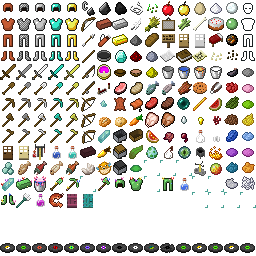
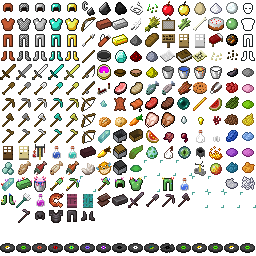
Nether phase 6: netherite
Ancient debris smelts to scrap; 4 scrap + 4 gold make an ingot (shaped,
since definition() cannot hold 8 shapeless pairs); 9 ingots make a block
and back. A diamond tool, sword or armour piece plus an ingot at the
crafting table gives the netherite one. New tier (4, 2031, 9, 4) and
armour material (37; diamond's protection) with the supplied layers.
Netherite item entities ignore fire and float up through lava.

Claude-Session: https://claude.ai/code/session_017mH2AEpB4uvm7sSTXaKhRB

diff --git a/handheld/src/world/item/Item.cpp b/handheld/src/world/item/Item.cpp
@@ -18,6 +18,8 @@ Item::Tier const Item::Tier::STONE(1, 131, 4, 1);
 Item::Tier const Item::Tier::IRON(2, 250, 6, 2);
 Item::Tier const Item::Tier::EMERALD(3, 1561, 8, 3);
 Item::Tier const Item::Tier::GOLD(0, 32, 12, 0);
+// Java's netherite: above diamond in uses, speed and damage.
+Item::Tier const Item::Tier::NETHERITE(4, 2031, 9, 4);
 
 // Static Item Definitions
 Item* Item::shovel_iron = NULL;
@@ -118,6 +120,17 @@ Item* Item::bucket_lava = NULL;
 Item* Item::goldNugget = NULL;
 Item* Item::oceanShard = NULL;
 Item* Item::kelp = NULL;
+Item* Item::netheriteScrap = NULL;
+Item* Item::netheriteIngot = NULL;
+Item* Item::sword_netherite = NULL;
+Item* Item::shovel_netherite = NULL;
+Item* Item::pickAxe_netherite = NULL;
+Item* Item::hatchet_netherite = NULL;
+Item* Item::hoe_netherite = NULL;
+Item* Item::helmet_netherite = NULL;
+Item* Item::chestplate_netherite = NULL;
+Item* Item::leggings_netherite = NULL;
+Item* Item::boots_netherite = NULL;
 Item* Item::trident = NULL;
 Item* Item::shovel_coral = NULL;
 Item* Item::pickAxe_coral = NULL;
@@ -365,6 +378,18 @@ void Item::initItems() {
 	Item::leggings_coral   = (new ArmorItem(175, ArmorItem::IRON, 5, ArmorItem::SLOT_LEGS))->setIcon(10, 11)->setCategory(ItemCategory::FoodArmor)->setDescriptionId("leggingsCoral");
 	Item::boots_coral      = (new ArmorItem(176, ArmorItem::IRON, 5, ArmorItem::SLOT_FEET))->setIcon(0, 12)->setCategory(ItemCategory::FoodArmor)->setDescriptionId("bootsCoral");
 	Item::trident = (new TridentItem(177))->setIcon(1, 12)->setCategory(ItemCategory::Tools)->setDescriptionId("trident");
+	// Netherite (phase 6): icons (6..11, 12) and (1..5, 13).
+	Item::netheriteScrap    = (new Item(180))->setIcon(6, 12)->setCategory(ItemCategory::Tools)->setDescriptionId("netheriteScrap");
+	Item::netheriteIngot    = (new Item(181))->setIcon(7, 12)->setCategory(ItemCategory::Tools)->setDescriptionId("netheriteIngot");
+	Item::sword_netherite   = (new WeaponItem(182, Tier::NETHERITE))->setIcon(8, 12)->setCategory(ItemCategory::Tools)->setDescriptionId("swordNetherite");
+	Item::shovel_netherite  = (new ShovelItem(183, Tier::NETHERITE))->setIcon(9, 12)->setCategory(ItemCategory::Tools)->setDescriptionId("shovelNetherite");
+	Item::pickAxe_netherite = (new PickaxeItem(184, Tier::NETHERITE))->setIcon(10, 12)->setCategory(ItemCategory::Tools)->setDescriptionId("pickaxeNetherite");
+	Item::hatchet_netherite = (new HatchetItem(185, Tier::NETHERITE))->setIcon(11, 12)->setCategory(ItemCategory::Tools)->setDescriptionId("hatchetNetherite");
+	Item::hoe_netherite     = (new HoeItem(186, Tier::NETHERITE))->setIcon(1, 13)->setCategory(ItemCategory::Tools)->setDescriptionId("hoeNetherite");
+	Item::helmet_netherite     = (new ArmorItem(187, ArmorItem::NETHERITE, 6, ArmorItem::SLOT_HEAD))->setIcon(2, 13)->setCategory(ItemCategory::FoodArmor)->setDescriptionId("helmetNetherite");
+	Item::chestplate_netherite = (new ArmorItem(188, ArmorItem::NETHERITE, 6, ArmorItem::SLOT_TORSO))->setIcon(3, 13)->setCategory(ItemCategory::FoodArmor)->setDescriptionId("chestplateNetherite");
+	Item::leggings_netherite   = (new ArmorItem(189, ArmorItem::NETHERITE, 6, ArmorItem::SLOT_LEGS))->setIcon(4, 13)->setCategory(ItemCategory::FoodArmor)->setDescriptionId("leggingsNetherite");
+	Item::boots_netherite      = (new ArmorItem(190, ArmorItem::NETHERITE, 6, ArmorItem::SLOT_FEET))->setIcon(5, 13)->setCategory(ItemCategory::FoodArmor)->setDescriptionId("bootsNetherite");
 	Item::oceanShard   = (new Item(153))->setIcon(6, 6)->setCategory(ItemCategory::Tools)->setDescriptionId("oceanShard");
 	Item::oceanCrystal = (new Item(154))->setIcon(6, 8)->setCategory(ItemCategory::Tools)->setDescriptionId("oceanCrystal");
 	// Bottles and the plain potion stack to 16; potions with an effect do not.
@@ -410,4 +435,10 @@ bool Item::isCoralTool(int id)
 {
 	return (shovel_coral && id == shovel_coral->id) || (pickAxe_coral && id == pickAxe_coral->id)
 		|| (hatchet_coral && id == hatchet_coral->id);
+}
+
+bool Item::isNetherite(int id)
+{
+	return (netheriteScrap && id >= netheriteScrap->id && id <= boots_netherite->id)
+		|| (Tile::netheriteBlock && id == Tile::netheriteBlock->id);
 }

diff --git a/handheld/src/client/gui/ItemTooltip.h b/handheld/src/client/gui/ItemTooltip.h
@@ -29,16 +29,16 @@ namespace ItemTooltip
 		char buf[64] = "";
 		const int id = item.id;
 		if (Item::sword_wood && (id == Item::sword_wood->id || id == Item::sword_stone->id || id == Item::sword_iron->id
-				|| id == Item::sword_gold->id || id == Item::sword_emerald->id)) {
+				|| id == Item::sword_gold->id || id == Item::sword_emerald->id || id == Item::sword_netherite->id)) {
 			snprintf(buf, sizeof buf, "+%d Attack Damage", ((WeaponItem*) it)->getAttackDamage(NULL));
 		} else if (Item::pickAxe_wood && (id == Item::pickAxe_wood->id || id == Item::pickAxe_stone->id || id == Item::pickAxe_iron->id
-				|| id == Item::pickAxe_gold->id || id == Item::pickAxe_emerald->id)) {
+				|| id == Item::pickAxe_gold->id || id == Item::pickAxe_emerald->id || id == Item::pickAxe_netherite->id)) {
 			snprintf(buf, sizeof buf, "+%d Mining Efficiency", (int) ((DiggerItem*) it)->getSpeed());
 		} else if (Item::hatchet_wood && (id == Item::hatchet_wood->id || id == Item::hatchet_stone->id || id == Item::hatchet_iron->id
-				|| id == Item::hatchet_gold->id || id == Item::hatchet_emerald->id)) {
+				|| id == Item::hatchet_gold->id || id == Item::hatchet_emerald->id || id == Item::hatchet_netherite->id)) {
 			snprintf(buf, sizeof buf, "+%d Chop Efficiency", (int) ((DiggerItem*) it)->getSpeed());
 		} else if (Item::shovel_wood && (id == Item::shovel_wood->id || id == Item::shovel_stone->id || id == Item::shovel_iron->id
-				|| id == Item::shovel_gold->id || id == Item::shovel_emerald->id)) {
+				|| id == Item::shovel_gold->id || id == Item::shovel_emerald->id || id == Item::shovel_netherite->id)) {
 			snprintf(buf, sizeof buf, "+%d Dig Efficiency", (int) ((DiggerItem*) it)->getSpeed());
 		} else if (Item::trident && id == Item::trident->id) {
 			snprintf(buf, sizeof buf, "+6 Attack Damage");

diff --git a/handheld/src/world/level/tile/Tile.cpp b/handheld/src/world/level/tile/Tile.cpp
@@ -189,6 +189,7 @@ Tile* Tile::magmaBlock = NULL;
 Tile* Tile::soulFire = NULL;
 Tile* Tile::netherGoldOre = NULL;
 Tile* Tile::ancientDebris = NULL;
+Tile* Tile::netheriteBlock = NULL;
 Tile* Tile::stairs_crimson = NULL;
 Tile* Tile::stairs_warped = NULL;
 Tile* Tile::fence_crimson = NULL;
@@ -409,6 +410,7 @@ void Tile::initTiles() {
 	trapdoor_warped   = (new TrapDoorTile(225, Material::wood, 319))->init()->setDestroyTime(3.0f)->setSoundType(SOUND_WOOD)->setCategory(ItemCategory::Structures)->setDescriptionId("trapdoorWarped");
 	door_crimson      = (new DoorTile(226, Material::wood, 336, &Item::door_crimson))->init()->setDestroyTime(3.0f)->setSoundType(SOUND_WOOD)->setCategory(ItemCategory::Structures)->setDescriptionId("doorCrimson");
 	door_warped       = (new DoorTile(227, Material::wood, 337, &Item::door_warped))->init()->setDestroyTime(3.0f)->setSoundType(SOUND_WOOD)->setCategory(ItemCategory::Structures)->setDescriptionId("doorWarped");
+	netheriteBlock = (new Tile(228, 322, Material::metal))->init()->setDestroyTime(50.0f)->setExplodeable(1200)->setSoundType(SOUND_METAL)->setCategory(ItemCategory::Structures)->setDescriptionId("netheriteBlock");
 	// Bone block: sides 281, top and bottom 282. Sea lantern: 283.
 	boneBlock = (new BoneBlockTile(190, 281))->init()->setDestroyTime(2.0f)->setExplodeable(10)->setSoundType(SOUND_STONE)->setCategory(ItemCategory::Structures)->setDescriptionId("boneBlock");
 	seaLantern = (new SeaLanternTile(191, 283))->init()->setDestroyTime(0.3f)->setLightEmission(1.0f)->setSoundType(SOUND_GLASS)->setCategory(ItemCategory::Decorations)->setDescriptionId("seaLantern");

diff --git a/handheld/src/world/item/crafting/Recipes.cpp b/handheld/src/world/item/crafting/Recipes.cpp
@@ -128,6 +128,23 @@ Recipes::Recipes()
 
 		definition('#', Item::bone));
 
+	// Netherite: 4 scrap and 4 gold make an ingot; 9 ingots a block and back.
+	// (definition() takes too few pairs for an 8-item shapeless recipe, so
+	// this one is shaped.)
+	addShapedRecipe(ItemInstance(Item::netheriteIngot, 1), "SSG", "SSG", "GG ", definition('S', Item::netheriteScrap, 'G', Item::goldIngot));
+	addShapedRecipe(ItemInstance(Tile::netheriteBlock, 1), "###", "###", "###", definition('#', Item::netheriteIngot));
+	addShapelessRecipe(ItemInstance(Item::netheriteIngot, 9), definition(0, Tile::netheriteBlock));
+	// The upgrade, at the crafting table instead of Java's smithing table:
+	// a diamond piece and an ingot make the netherite one.
+	{
+		Item* from[9] = { Item::sword_emerald, Item::shovel_emerald, Item::pickAxe_emerald, Item::hatchet_emerald, Item::hoe_emerald,
+			Item::helmet_diamond, Item::chestplate_diamond, Item::leggings_diamond, Item::boots_diamond };
+		Item* to[9] = { Item::sword_netherite, Item::shovel_netherite, Item::pickAxe_netherite, Item::hatchet_netherite, Item::hoe_netherite,
+			Item::helmet_netherite, Item::chestplate_netherite, Item::leggings_netherite, Item::boots_netherite };
+		for (int i = 0; i < 9; ++i)
+			addShapelessRecipe(ItemInstance(to[i], 1), definition(0, from[i], 0, Item::netheriteIngot));
+	}
+
 	addShapelessRecipe(ItemInstance(Item::dye_powder, 9, DyePowderItem::WHITE), //
 		definition(0, Tile::boneBlock));
 

diff --git a/handheld/src/client/gui/screens/touch/CreativeInventoryScreen.cpp b/handheld/src/client/gui/screens/touch/CreativeInventoryScreen.cpp
@@ -78,7 +78,7 @@ int CreativeInventoryScreen::sectionOf(const ItemInstance& item)
 	if (self->isArmor()) return WeaponsArmor;
 	Item* const weapons[] = {
 		Item::sword_wood, Item::sword_stone, Item::sword_iron, Item::sword_gold, Item::sword_emerald,
-		Item::bow, Item::arrow, Item::trident,
+		Item::bow, Item::arrow, Item::trident, Item::sword_netherite,
 	};
 	if (isOneOf(id, weapons, COUNT(weapons))) return WeaponsArmor;
 	Item* const tools[] = {
@@ -89,6 +89,7 @@ int CreativeInventoryScreen::sectionOf(const ItemInstance& item)
 		Item::flintAndSteel, Item::shears, Item::bucket_empty, Item::bucket_water, Item::bucket_lava,
 		Item::clock, Item::compass, Item::camera,
 		Item::pickAxe_coral, Item::shovel_coral, Item::hatchet_coral, Item::axolotlBucket,
+		Item::pickAxe_netherite, Item::shovel_netherite, Item::hatchet_netherite, Item::hoe_netherite,
 	};
 	if (isOneOf(id, tools, COUNT(tools))) return Tools;
 	Item* const drinks[] = { Item::waterBottle, Item::awkwardPotion, Item::waterBreathingPotion, Item::unpoisonPotion, Item::mushroomStew };

diff --git a/handheld/src/world/entity/player/Inventory.cpp b/handheld/src/world/entity/player/Inventory.cpp
@@ -258,6 +258,18 @@ void Inventory::setupDefault() {
 		addItem(new ItemInstance(Tile::soulSoil));
 		addItem(new ItemInstance(Tile::basalt));
 		addItem(new ItemInstance(Tile::blackstone));
+		addItem(new ItemInstance(Tile::netheriteBlock));
+		addItem(new ItemInstance(Item::netheriteScrap));
+		addItem(new ItemInstance(Item::netheriteIngot));
+		addItem(new ItemInstance(Item::sword_netherite));
+		addItem(new ItemInstance(Item::pickAxe_netherite));
+		addItem(new ItemInstance(Item::hatchet_netherite));
+		addItem(new ItemInstance(Item::shovel_netherite));
+		addItem(new ItemInstance(Item::hoe_netherite));
+		addItem(new ItemInstance(Item::helmet_netherite));
+		addItem(new ItemInstance(Item::chestplate_netherite));
+		addItem(new ItemInstance(Item::leggings_netherite));
+		addItem(new ItemInstance(Item::boots_netherite));
 		addItem(new ItemInstance(Tile::crimsonStem));
 		addItem(new ItemInstance(Tile::warpedStem));
 		addItem(new ItemInstance(Tile::netherWartBlock));

diff --git a/handheld/src/world/item/Item.h b/handheld/src/world/item/Item.h
@@ -34,6 +34,7 @@ public:
 		static const Tier IRON;
 		static const Tier EMERALD;
 		static const Tier GOLD;
+		static const Tier NETHERITE;
 
 		Tier(int level, int uses, float speed, int damage)
 		:	level(level),
@@ -211,6 +212,19 @@ public:
 	static Item* goldNugget;
 	static Item* oceanShard;
 	static Item* kelp;
+	static Item* netheriteScrap;
+	static Item* netheriteIngot;
+	static Item* sword_netherite;
+	static Item* shovel_netherite;
+	static Item* pickAxe_netherite;
+	static Item* hatchet_netherite;
+	static Item* hoe_netherite;
+	static Item* helmet_netherite;
+	static Item* chestplate_netherite;
+	static Item* leggings_netherite;
+	static Item* boots_netherite;
+	/// Netherite and what is made of it: floats in lava, never burns.
+	static bool isNetherite(int id);
 	static Item* trident;
 	static Item* shovel_coral;
 	static Item* pickAxe_coral;

diff --git a/handheld/src/world/entity/item/ItemEntity.cpp b/handheld/src/world/entity/item/ItemEntity.cpp
@@ -73,7 +73,12 @@ void ItemEntity::tick()
 	} else {
 		yd -= 0.04f;
 	}
-	if (level->getMaterial(Mth::floor(x), Mth::floor(y), Mth::floor(z)) == Material::lava) {
+	if (level->getMaterial(Mth::floor(x), Mth::floor(y), Mth::floor(z)) == Material::lava && Item::isNetherite(item.id)) {
+		// Netherite floats up through lava, untouched (Java).
+		yd = 0.06f;
+		xd *= 0.8f;
+		zd *= 0.8f;
+	} else if (level->getMaterial(Mth::floor(x), Mth::floor(y), Mth::floor(z)) == Material::lava) {
 		yd = 0.2f;
 		xd = (sharedRandom.nextFloat() - sharedRandom.nextFloat()) * 0.2f;
 		zd = (sharedRandom.nextFloat() - sharedRandom.nextFloat()) * 0.2f;
@@ -136,6 +141,7 @@ void ItemEntity::playerTouch( Player* player )
 
 void ItemEntity::burn( int dmg )
 {
+	if (Item::isNetherite(item.id)) return;	// fire-proof
 	hurt(NULL, dmg);
 }
 

diff --git a/handheld/src/client/renderer/entity/PlayerRenderer.cpp b/handheld/src/client/renderer/entity/PlayerRenderer.cpp
@@ -8,13 +8,14 @@
 #include "../../skin/PlayerSkins.h"
 #include "../Textures.h"
 
-static const std::string armorFilenames[12] = {
+static const std::string armorFilenames[14] = {
 	"armor/cloth_1.png",	"armor/cloth_2.png",
 	"armor/chain_1.png",	"armor/chain_2.png",
 	"armor/iron_1.png",		"armor/iron_2.png",
 	"armor/diamond_1.png",	"armor/diamond_2.png",
 	"armor/gold_1.png",		"armor/gold_2.png",
 	"armor/coral_1.png",	"armor/coral_2.png",
+	"armor/netherite_1.png",	"armor/netherite_2.png",
 };
 
 PlayerRenderer::PlayerRenderer( HumanoidModel* humanoidModel, float shadow )

diff --git a/handheld/src/world/item/crafting/FurnaceRecipes.cpp b/handheld/src/world/item/crafting/FurnaceRecipes.cpp
@@ -41,6 +41,7 @@ FurnaceRecipes::FurnaceRecipes()
 	addFurnaceRecipe(Tile::sand->id,        ItemInstance(Tile::glass));
 	addFurnaceRecipe(Item::porkChop_raw->id,ItemInstance(Item::porkChop_cooked));
 	addFurnaceRecipe(Item::rawCod->id, ItemInstance(Item::cookedCod));
+	addFurnaceRecipe(Tile::ancientDebris->id, ItemInstance(Item::netheriteScrap));
 	for (int i = 0; i < 5; ++i)
 		addFurnaceRecipe(Tile::coral[i]->id, ItemInstance(Item::crystalizedCoral));
 	addFurnaceRecipe(Tile::prismarineBricks->id, ItemInstance(Tile::darkPrismarine));

diff --git a/handheld/src/world/item/ArmorItem.cpp b/handheld/src/world/item/ArmorItem.cpp
@@ -80,6 +80,13 @@ const ArmorItem::ArmorMaterial ArmorItem::DIAMOND(
 	//10
 );
 
+// Java's netherite: diamond's protection, more durable (and fire-proof as
+// an item, ItemEntity::burn).
+const ArmorItem::ArmorMaterial ArmorItem::NETHERITE(
+	37,
+	3, 8, 6, 3
+);
+
 // Worn from the hand, as in Minecraft. In survival the piece leaves the hand and
 // the one it replaces goes to the inventory (or the floor if that is full); in
 // creative the hand keeps its piece, the supply being endless.

diff --git a/handheld/src/locale/I18n.cpp b/handheld/src/locale/I18n.cpp
@@ -100,7 +100,8 @@ std::string I18n::getDescriptionString( const ItemInstance& item )
 		"emerald",
 		"lapis",
 		"cloth",
-		"coral"
+		"coral",
+		"netherite"
 	};
 
 	Util::removeAll(s, materials, sizeof(materials) / sizeof(const char*));
